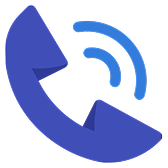
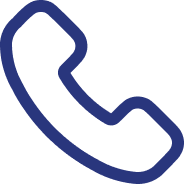
tweaks

diff --git a/src/app/projects/page.js b/src/app/projects/page.js
@@ -12,6 +12,7 @@ import sequoia from '../images/sequoia.webp';
 import karjat from '../images/karjat.webp';
 import cartier from '../images/cartier.webp';
 import celebrity from '../images/celebrity.webp';
+import click from '../images/click.png';
 
 const page = () => {
 
@@ -53,9 +54,12 @@ const page = () => {
                 <div className='mt-14 grid grid-cols-3 place-content-between gap-7'>
                     {projects.map((item) => {
                         return (
-                            <div className='overflow-hidden' key={item.id}>
-                                <Image src={item.image} className='hover:scale-105 duration-500 transition-transform' alt={item.text} />
-                                <p className='mt-3'>{item.text}</p>
+                            <div className="overflow-hidden" key={item.id}>
+                                <div className="relative group cursor-pointer">
+                                    <Image src={item.image} alt={item.text} className="transition-transform duration-500 group-hover:scale-105" />
+                                    <Image src={click} alt="click icon" className="absolute top-1/2 left-1/2 -translate-x-1/2 -translate-y-1/2 w-14 h-14 opacity-0 scale-90 group-hover:opacity-100 group-hover:scale-100 transition-all duration-300"/>
+                                </div>
+                                <p className="mt-3">{item.text}</p>
                             </div>
                         )
                     })}

diff --git a/src/app/contact/page.js b/src/app/contact/page.js
@@ -27,7 +27,7 @@ const page = () => {
                 <div className='container flex mt-14 gap-x-14'>
                     <div className='bg-white w-4/12 rounded-2xl'>
                         <div className='flex flex-col gap-y-2 border-b-2 border-gray-200 py-8 pl-10'>
-                            <Image src={visit} className='w-12 h-12' alt='map-icon' />
+                            <Image src={visit} className='w-12 h-14' alt='map-icon' />
                             <small className='text-2xl font-semibold'>Visit Us</small>
                             <small className='text-lg'>M/s. Indecomal Exports LLP. Ram House 4 - Gaiwadi Industrial Estate, Goregaon West, Mumbai - 400 104</small>
                         </div>
@@ -37,7 +37,7 @@ const page = () => {
                             <p>+91 98192 47835</p>
                         </div>
                         <div className='flex flex-col gap-y-2 py-8 pl-10'>
-                            <Image src={mail} className='w-12 h-12' alt='map-icon' />
+                            <Image src={mail} className='w-14 h-10' alt='map-icon' />
                             <small className='text-2xl font-semibold'>Mail Us</small>
                             <p>info@idelindia.com</p>
                         </div>

diff --git a/src/app/clients/page.js b/src/app/clients/page.js
@@ -71,7 +71,7 @@ const page = () => {
                     {clients.map((client) => {
                         return (
                             <div key={client.id} className='bg-white rounded-xl border border-gray-300 flex flex-col justify-center w-96 h-40'>
-                                <div className='flex flex-col mx-auto'>
+                                <div className='flex flex-col ml-20'>
                                     <p className='font-semibold flex items-center gap-x-2 text-blue space-x-4'><span><Image src={home} className='w-5 h-5' alt="home icon" /></span>{client.type}</p>
                                     <p className='my-2'>Client: <span className='font-semibold'>{client.name}</span></p>
                                     <small className='flex items-center text-gray-400 gap-x-2'><span><Image src={location} className='' alt="home icon" /></span>{client.location}</small>

diff --git a/src/app/components/Home/Process.jsx b/src/app/components/Home/Process.jsx
@@ -23,7 +23,7 @@ const Process = () => {
                         <p className='uppercase flex gap-x-4 font-bold text-blue'><span><Image src={blueLine} alt='vector' /></span>Our Process</p>
                         <h2 className='mt-3'>Precision-Driven Process <br />for Every Project</h2>
                     </div>
-                    <p className='leading-7 mt-2 mb-7'>Our team helps you make confident decisions by<br /> offering clear guidance, expert evaluation, and<br /> tailored recommendations for your space.</p>
+                    <p className='leading-7 mt-2 mb-7 text-right'>Our team helps you make confident decisions by<br /> offering clear guidance, expert evaluation, and<br /> tailored recommendations for your space.</p>
                 </div>
                 
                 <div className='grid grid-cols-4 gap-x-5 mt-14'>

diff --git a/src/app/components/Home/Banner.jsx b/src/app/components/Home/Banner.jsx
@@ -6,7 +6,7 @@ const Banner = () => {
             <div className='container text-white relative top-1/2 -translate-y-1/2'>
                 <h1 className='uppercase'>Your <br/>Sanctuary <br/>In Precision</h1>
                 <p className='w-1/2 leading-6 mt-3'>Experience seamless aluminium systems built with uncompromised quality, innovation, and long-lasting performance.</p>
-                <button className='bg-yellow rounded-lg uppercase px-9 py-3 mt-6'>Enquire Now</button>
+                <button className='bg-[#3D7ED9] rounded-lg uppercase px-9 py-3 mt-6'>Enquire Now</button>
             </div>
         </div>
     )

diff --git a/src/app/product/page.js b/src/app/product/page.js
@@ -59,7 +59,7 @@ const page = () => {
             {/* Products */}
             {products.map((product) => (
                 <div key={product.id}>
-                    <div className='bg-sky container relative flex justify-between items-center px-16 pt-16 pb-40'>
+                    <div className='bg-sky container relative flex justify-between items-center px-16 pt-16 pb-40 rounded-3xl'>
                         <div className='w-1/2'>
                             <h2 className='!font-thin'>{product.title}</h2>
                             <p className='mt-4'>{product.description}</p>

diff --git a/src/app/components/Form.jsx b/src/app/components/Form.jsx
@@ -16,7 +16,7 @@ const Form = () => {
                         <input type='tel' placeholder='Phone Number' className='form-input' />
                         <textarea placeholder='Your Message' className='form-input h-32'></textarea>
                     </div>
-                    <button className='bg-yellow rounded-lg uppercase w-full py-3 mt-6 text-white'>Send Message</button>
+                    <button className='bg-[#3D7ED9] rounded-lg uppercase w-full py-3 mt-6 text-white'>Send Message</button>
                 </form>
 
             </div>

diff --git a/src/app/components/Home/Products.jsx b/src/app/components/Home/Products.jsx
@@ -48,4 +48,3 @@ const Products = () => {
 }
 
 export default Products
-6
